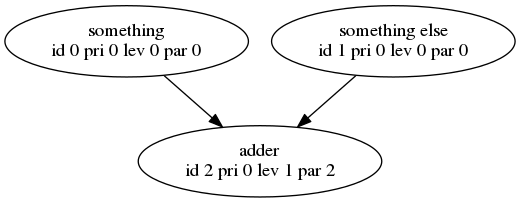
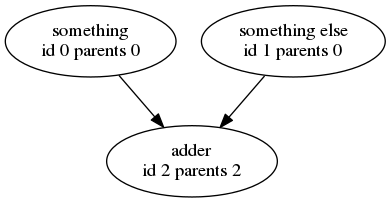
fix doc

diff --git a/README.md b/README.md
@@ -5,10 +5,9 @@ task dependencies and run those tasks in parallel that do not depend on each oth
 Under the hood, a directed acyclic graph is built at compile-time enabling efficient 
 traversal and type-safe dependencies.
 
-A task in transwarp is defined through a functor, parent tasks, and optional name 
-and priority. The functor's arguments must match the return types of the parent tasks.
-The priority comes in handy when certain tasks on the same graph level need to run
-before others. transwarp supports custom executors either per task or globally
+A task in transwarp is defined through a functor, parent tasks, and an optional name. 
+The functor's arguments must match the return types of the parent tasks.
+transwarp supports custom executors either per task or globally
 when scheduling the tasks in the graph.
 
 transwarp is designed for ease of use, portability, and scalability. It is written in 
@@ -67,7 +66,7 @@ The resulting graph of this example looks like this:
 ![graph](https://raw.githubusercontent.com/bloomen/transwarp/master/examples/basic_with_three_tasks.png)
 
 Every bubble represents a task and every arrow an edge between two tasks. 
-The first line within a bubble is the task name. The second line denotes the task id,
-the task priority, the task level in the graph, and the number of parents, respectively. 
+The first line within a bubble is the task name. The second line denotes the task id and
+the number of parents, respectively. 
 
 **Enjoy!**
